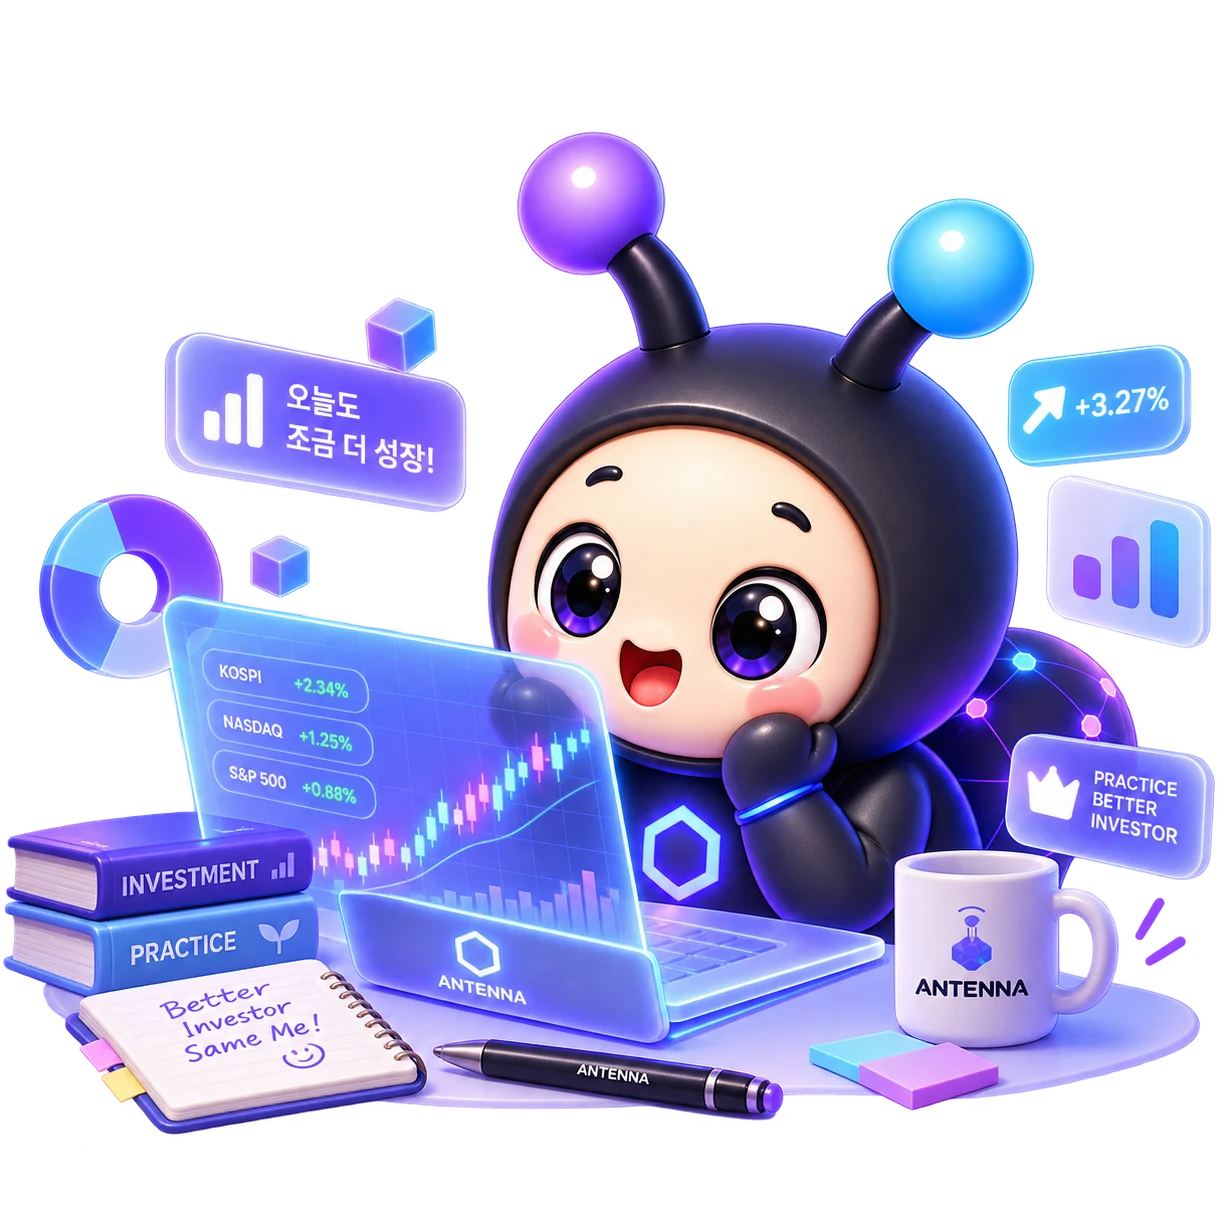
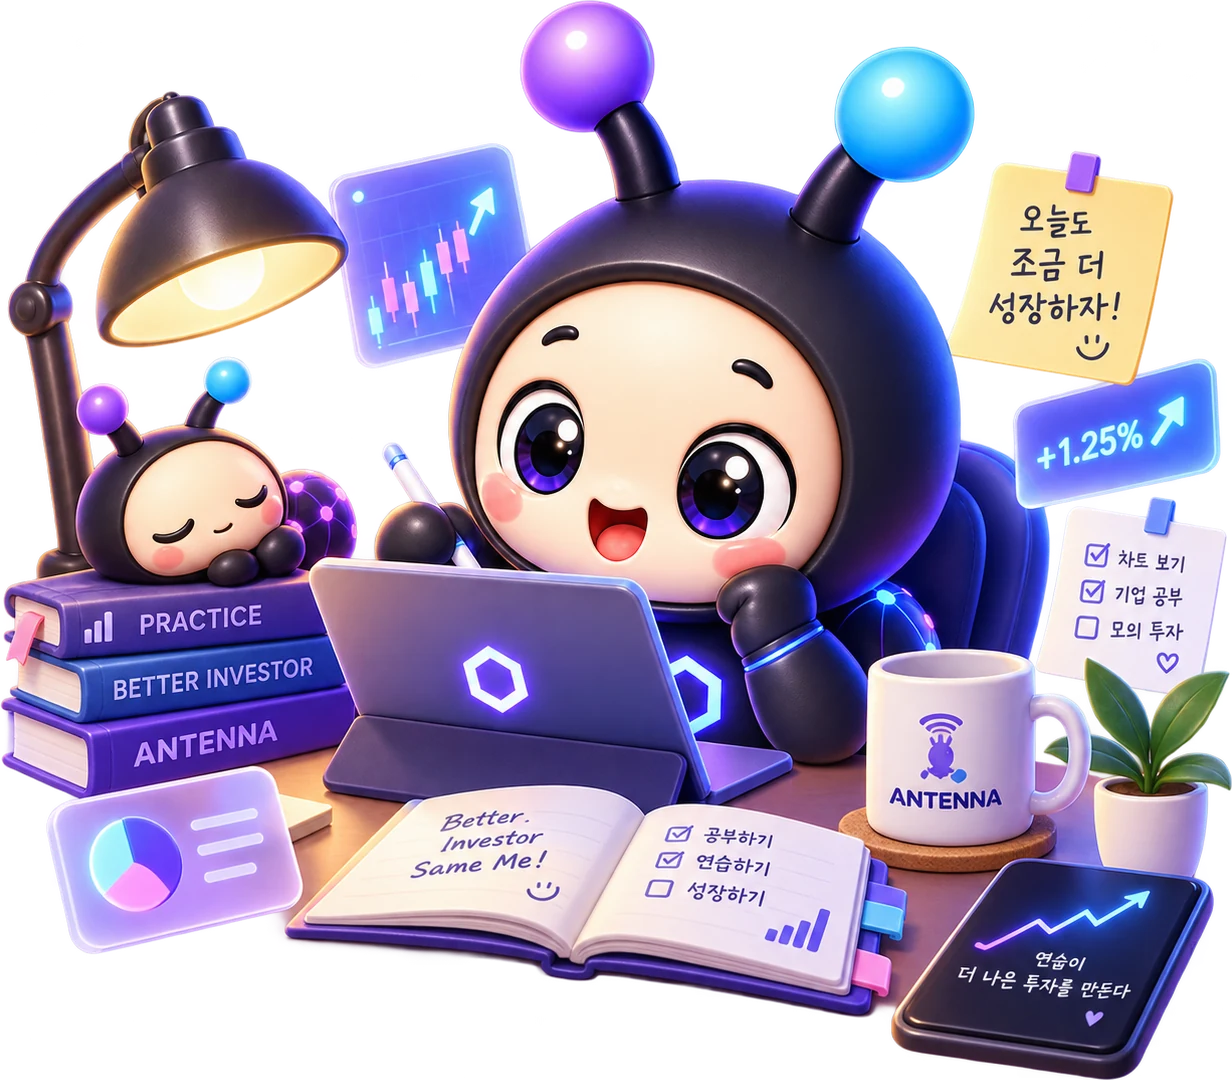
style: FE_[ANT-FE-SEASON-HOME]_개미 그림을 새 시안으로 · 화면 전체의 굵기를 한 단씩 내린다
## 개미 그림

page_train 에 받아 둔 새 시안(02_16_18 (2))으로 바꿨다. 알파가 있는 곳까지만 잘라
webp 로 굽는다 — 1254x1254 -> 1232x1080, 258KB.

**겹쳐 두던 말풍선(.sh-bubble)은 걷어냈다.** 새 그림 안에 말풍선("오늘도 조금 더
성장하자!")과 메모("연습이 더 나은 투자를 만든다")가 이미 그려져 있어서, 그 위에
또 하나를 얹으면 같은 자리에 말이 세 번 뜬다. 규칙 · 떠다니는 애니메이션 ·
모션 줄이기 목록에서 같이 뺐다.

## 굵기

한 화면이 전부 700~850 이었다. 다 굵으면 어디가 중요한지 말하지 못하고, 어두운
바탕에서는 글자가 더 두꺼워 보여 화면이 무겁다.

  850 -> 800  히어로 제목 · 큰 숫자 · 주제 카드 제목
  800 -> 700  버튼 · 강조한 낱말(b) · 번호 배지
  700 -> 600  라벨 · 설명 · 사실 띠 · 인용 밑줄

**600 아래로는 내리지 않았다.** 어두운 바탕 위의 밝은 글자는 같은 굵기라도 더
가늘어 보여, 500 이하에서는 12~15px 글자가 흐려진다. 강조는 굵기 대신 **색**이
맡는다 — 흰색이 중요한 것, --night-body 가 딸린 것.

확인 (실측 굵기/크기)
  제목 800/38 · 버튼 700/17 · 주제 카드 제목 800/22 · 카드 버튼 600/14
  큰 숫자 800/26 · 라벨 600/15 · 사실 띠 600/15 · 인용 밑줄 600/15
  1410x760 · 1900x945 넘침 0 · 가로 스크롤 없음
tsc · 빌드 통과.

diff --git a/frontend/src/styles/screens/sim-home.css b/frontend/src/styles/screens/sim-home.css
@@ -19,6 +19,18 @@
    색·상단바처럼 기록 화면(G-09)과 같이 쓰는 것은 styles/night.css 에 있다.
    여기에는 이 화면만의 값(여백 · 히어로 · 카드 크기)만 남긴다.
 
+   ── 굵기 (2026-09-23) ────────────────────────────────
+   한 화면이 전부 700~850 이었다. 다 굵으면 어디가 중요한지 말하지 못하고, 어두운
+   바탕에서는 글자가 더 두꺼워 보여 화면이 무겁다. 한 단씩 내렸다.
+
+     850 -> 800  히어로 제목 · 큰 숫자 · 주제 카드 제목
+     800 -> 700  버튼 · 강조한 낱말(b) · 번호 배지
+     700 -> 600  라벨 · 설명 · 사실 띠 · 인용 밑줄
+
+   **600 아래로는 내리지 않는다.** 어두운 바탕 위의 밝은 글자는 같은 굵기라도 더
+   가늘어 보여서, 500 이하에서는 12~15px 글자가 흐려진다. 강조는 굵기 대신
+   **색**(흰색 vs --night-body)이 맡는다.
+
    ── .sim-home 으로 한정한 규칙이 있는 이유 ──────────────
    G-09 기록(sim-history.css)이 같은 sh- 접두사로 .sh-bar 를 이미 쓴다. CSS 는 import
    되는 순간 전역이라 두 화면을 오간 뒤에는 나중에 실린 쪽이 이긴다. 겹치는 것은
@@ -120,7 +132,8 @@ body.sim-home-page .main-inner{padding-top:var(--page-pt);padding-bottom:var(--p
 /* 아래 여백이 큰 것은 제목과 버튼 사이에 아무것도 없어서다 — 설명 줄을 걷어낸
    뒤로 둘이 바로 붙어 한 덩어리로 읽혔다(2026-09-21). */
 .sh-title{
-  margin:0 0 34px;font-size:var(--title);line-height:1.25;color:#fff;text-wrap:balance;
+  margin:0 0 34px;font-size:var(--title);font-weight:var(--fw-heavy);line-height:1.25;
+  color:#fff;text-wrap:balance;
 }
 .sh-title em{
   font-style:normal;
@@ -131,7 +144,7 @@ body.sim-home-page .main-inner{padding-top:var(--page-pt);padding-bottom:var(--p
 .sh-btn{
   display:inline-flex;align-items:center;gap:10px;height:var(--btn-h);padding:0 26px;
   border-radius:14px;border:1px solid transparent;
-  font-size:var(--fs-2xl);font-weight:var(--fw-heavy);letter-spacing:-.01em;
+  font-size:var(--fs-2xl);font-weight:var(--fw-bold);letter-spacing:-.01em;
   cursor:pointer;transition:transform .15s,box-shadow .15s,background .15s;
 }
 .sh-btn:active{transform:translateY(1px)}
@@ -147,8 +160,8 @@ body.sim-home-page .main-inner{padding-top:var(--page-pt);padding-bottom:var(--p
 .sh-btn.line:hover{background:var(--night-glass-hi)}
 .sh-btn svg:last-child{margin-right:-4px}
 
-.sh-topic{margin:16px 0 0;font-size:var(--fs-xl);color:var(--night-body);font-weight:var(--fw-bold)}
-.sh-topic b{color:#fff;font-weight:var(--fw-heavy)}
+.sh-topic{margin:16px 0 0;font-size:var(--fs-xl);color:var(--night-body);font-weight:var(--fw-normal)}
+.sh-topic b{color:#fff;font-weight:var(--fw-bold)}
 
 /* 개미 무대. 그림이 판 아래로 살짝 내려가 책상에 앉은 것처럼 보인다. */
 .sh-stage{
@@ -161,10 +174,8 @@ body.sim-home-page .main-inner{padding-top:var(--page-pt);padding-bottom:var(--p
   filter:drop-shadow(0 30px 40px rgba(0,0,0,.55));
   animation:sh-float 6s ease-in-out infinite alternate;
 }
-.sh-bubble{
-  position:absolute;left:8%;top:10%;width:26%;opacity:.9;
-  animation:sh-float 4.5s ease-in-out infinite alternate-reverse;
-}
+/* 말풍선 겹치기(.sh-bubble)는 걷어냈다(2026-09-23) — 새 개미 그림에 말풍선과
+   메모가 이미 그려져 있어, 그 위에 또 하나를 얹으면 같은 말이 두 번 뜬다. */
 @keyframes sh-float{from{transform:translateY(0)}to{transform:translateY(-8px)}}
 
 /* 오른쪽 요약 두 칸 — 유리판 */
@@ -176,11 +187,11 @@ body.sim-home-page .main-inner{padding-top:var(--page-pt);padding-bottom:var(--p
 }
 .sh-glass dt{
   display:flex;align-items:center;gap:7px;margin:0 0 8px;
-  font-size:var(--fs-xl);font-weight:var(--fw-bold);color:var(--night-body);
+  font-size:var(--fs-xl);font-weight:var(--fw-normal);color:var(--night-body);
 }
 .sh-glass dt svg{color:var(--glow)}
-.sh-glass dd{margin:0;font-size:var(--fs-6xl);font-weight:var(--fw-black);color:#fff;letter-spacing:-.02em;line-height:1.1}
-.sh-glass dd small{font-size:var(--fs-2xl);font-weight:var(--fw-bold);color:var(--night-body);margin-left:4px}
+.sh-glass dd{margin:0;font-size:var(--fs-6xl);font-weight:var(--fw-heavy);color:#fff;letter-spacing:-.02em;line-height:1.1}
+.sh-glass dd small{font-size:var(--fs-2xl);font-weight:var(--fw-normal);color:var(--night-body);margin-left:4px}
 .sh-glass-err{font-size:var(--fs-base)!important;font-weight:var(--fw-normal)!important;letter-spacing:0!important}
 .sim-home .sh-bar{
   display:block;height:6px;margin-top:12px;border-radius:999px;background:rgba(255,255,255,.12);overflow:hidden;
@@ -190,10 +201,10 @@ body.sim-home-page .main-inner{padding-top:var(--page-pt);padding-bottom:var(--p
    것이라, 칸을 새로 만들지 않고 진행률 아래 한 줄로 받는다 — 칸을 더하면 히어로가
    길어져 낮은 화면에서 한 화면에 안 들어간다. */
 .sh-glass-foot{display:flex;align-items:baseline;justify-content:space-between;gap:10px;margin-top:11px}
-.sh-done{font-size:var(--fs-lg);font-weight:var(--fw-bold);color:var(--night-body);white-space:nowrap}
-.sh-done b{color:#fff;font-weight:var(--fw-heavy)}
+.sh-done{font-size:var(--fs-lg);font-weight:var(--fw-normal);color:var(--night-body);white-space:nowrap}
+.sh-done b{color:#fff;font-weight:var(--fw-bold)}
 .sh-glass-link{
-  font-size:var(--fs-lg);font-weight:var(--fw-bold);color:var(--night-body);white-space:nowrap;
+  font-size:var(--fs-lg);font-weight:var(--fw-normal);color:var(--night-body);white-space:nowrap;
 }
 .sh-glass-link:hover{color:#fff}
 
@@ -231,20 +242,20 @@ body.sim-home-page .main-inner{padding-top:var(--page-pt);padding-bottom:var(--p
   align-self:flex-start;margin:calc(var(--card-pt) * -1) 0 auto;
   padding:9px 12px 12px;border-radius:0 0 10px 10px;
   background:var(--night-glass);border:1px solid var(--night-line);border-top:0;backdrop-filter:blur(8px);
-  font-size:var(--fs-base);font-weight:var(--fw-heavy);color:#fff;
+  font-size:var(--fs-base);font-weight:var(--fw-bold);color:#fff;
 }
 .sh-topic-card.is-live .sh-topic-no{background:var(--brand);border-color:var(--brand)}
 /* 아래 여백 8px 은 걷어낸 설명 줄(p)이 들고 있던 값이다 — 그것만 물려받고 글자
    크기·카드 높이는 설명이 있던 때 그대로다. 지운 것은 글이지 카드가 아니다. */
 .sh-topic-card h2{
-  margin:0 0 8px;font-size:var(--fs-4xl);font-weight:var(--fw-black);line-height:1.25;
+  margin:0 0 8px;font-size:var(--fs-4xl);font-weight:var(--fw-heavy);line-height:1.25;
   letter-spacing:-.02em;color:#fff;text-wrap:balance;
 }
 .sh-topic-go{
   display:inline-flex;align-items:center;gap:8px;align-self:flex-start;
   height:38px;padding:0 18px;border-radius:999px;
   background:var(--night-glass);border:1px solid rgba(255,255,255,.22);backdrop-filter:blur(8px);
-  color:#fff;font-size:var(--fs-lg);font-weight:var(--fw-bold);transition:background .15s,gap .15s;
+  color:#fff;font-size:var(--fs-lg);font-weight:var(--fw-normal);transition:background .15s,gap .15s;
 }
 .sh-topic-go:hover{background:var(--night-glass-hi);gap:12px}
 .sh-topic-card.is-live .sh-topic-go{background:var(--brand);border-color:var(--brand)}
@@ -266,15 +277,15 @@ body.sim-home-page .main-inner{padding-top:var(--page-pt);padding-bottom:var(--p
 .sh-facts ul{display:flex;align-items:center;gap:0;margin:0;padding:0;list-style:none;flex-wrap:wrap}
 .sh-facts li{
   display:flex;align-items:center;gap:10px;padding:4px var(--fact-gap);
-  font-size:var(--fact);font-weight:var(--fw-bold);color:var(--night-body);white-space:nowrap;
+  font-size:var(--fact);font-weight:var(--fw-normal);color:var(--night-body);white-space:nowrap;
 }
 .sh-facts li + li{border-left:1px solid var(--night-line)}
 .sh-facts li:first-child{padding-left:0}
 .sh-facts li svg{color:var(--glow);flex:none;width:24px;height:24px}
-.sh-facts li b{color:#fff;font-weight:var(--fw-heavy)}
+.sh-facts li b{color:#fff;font-weight:var(--fw-bold)}
 .sh-quote{display:flex;align-items:baseline;gap:12px;margin:0;white-space:nowrap}
 .sh-quote .sh-hand{font-size:var(--quote);color:#e6e2ff}
-.sh-quote small{font-size:var(--fs-xl);color:var(--night-body);font-weight:var(--fw-bold)}
+.sh-quote small{font-size:var(--fs-xl);color:var(--night-body);font-weight:var(--fw-normal)}
 
 /* ── 반응형 ───────────────────────────────────────── */
 /* 카드가 한 줄에 안 서면 넘겨 보기로 바꾸고 화살표를 낸다 */
@@ -333,5 +344,5 @@ body.sim-home-page .main-inner{padding-top:var(--page-pt);padding-bottom:var(--p
 }
 
 @media (prefers-reduced-motion:reduce){
-  .sh-bd-wave,.sh-hero-art,.sh-bubble{animation:none}
+  .sh-bd-wave,.sh-hero-art{animation:none}
 }

diff --git a/frontend/src/pages/SeasonHome.tsx b/frontend/src/pages/SeasonHome.tsx
@@ -160,7 +160,6 @@ function Hero({ lead, practice, ongoing, done, startAt, myError, myLoading, onRe
       {/* 책상에 앉은 개미. 시안 원본(page_train)을 여백만 잘라 webp 로 구웠다.
           말풍선("오늘도 조금 더 성장!") 이 그림 안에 있어 따로 얹지 않는다. */}
       <div className="sh-stage" aria-hidden="true">
-        <img className="sh-bubble" src="/assets/pageset/bubble.webp" alt="" />
         <img className="sh-hero-art" src="/assets/page_train/ant-desk.webp" alt="" />
       </div>
 
